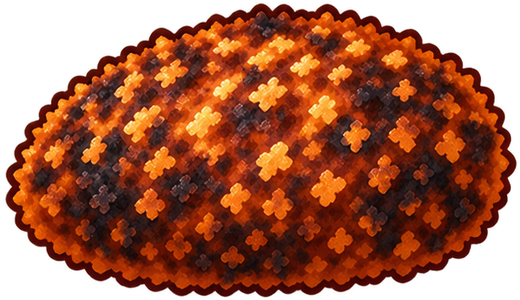
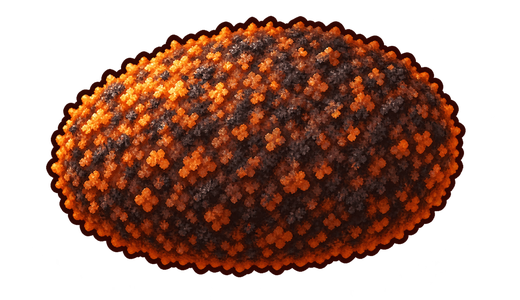
Add files via upload

diff --git a/renderer.js b/renderer.js
@@ -11,12 +11,10 @@
       {id:'headphones',name:'ヘッドホン',src:'assets/dishgen/headphones.png',cat:'extra'},
       {id:'steam',name:'湯気',src:'assets/dishgen/steam.png',cat:'extra'},
       {id:'sparkle',name:'キラキラ',src:'assets/dishgen/sparkle.png',cat:'extra'},
-      {id:'finishGoldenWhole',name:'焼き(全体/こんがり)',src:'assets/dishgen/finish/golden_whole.png',cat:'finish'},
-      {id:'finishGoldenCut',name:'焼き(断面/こんがり)',src:'assets/dishgen/finish/golden_cut.png',cat:'finish'},
-      {id:'finishBurntWhole',name:'焼き(全体/焦げ)',src:'assets/dishgen/finish/burnt_whole.png',cat:'finish'},
-      {id:'finishBurntCut',name:'焼き(断面/焦げ)',src:'assets/dishgen/finish/burnt_cut.png',cat:'finish'},
-      {id:'finishCharcoalWhole',name:'焼き(全体/丸焦げ)',src:'assets/dishgen/finish/charcoal_whole.png',cat:'finish'},
-      {id:'finishCharcoalCut',name:'焼き(断面/丸焦げ)',src:'assets/dishgen/finish/charcoal_cut.png',cat:'finish'}
+      {id:'finishGoldenWhole',name:'焼き(全体/奇跡の火入れ)',src:'assets/dishgen/finish/golden_whole.png',cat:'finish'},
+      {id:'finishGoldenCut',name:'焼き(断面/奇跡の火入れ)',src:'assets/dishgen/finish/golden_cut.png',cat:'finish'},
+      {id:'finishCharcoalWhole',name:'焼き(全体/黒焦げ)',src:'assets/dishgen/finish/charcoal_whole.png',cat:'finish'},
+      {id:'finishCharcoalCut',name:'焼き(断面/黒焦げ)',src:'assets/dishgen/finish/charcoal_cut.png',cat:'finish'}
     ],
     sauces:[
       {id:'cream',name:'クリーム',src:'assets/dishgen/cream.png',cat:'sauce'},
@@ -74,33 +72,7 @@
     return out;
   }
   function drawImageAsset(ctx,images,l){const img=images[l.assetId];if(!img)return;ctx.save();ctx.translate(l.x,l.y);ctx.rotate((l.rotation||0)*Math.PI/180);ctx.scale(l.flipX?-1:1,1);ctx.globalAlpha=l.alpha??1;const w=img.width*l.scale,h=img.height*l.scale;ctx.drawImage(img,-w/2,-h/2,w,h);ctx.restore();}
-  function drawFinishOverlay(ctx,images,layers,finish){
-    if(!finish||finish==='normal')return;
-    const whole=layers.find(l=>l.role==='backBody');
-    const frame=layers.find(l=>l.role==='cutFrame');
-    const finishMap={
-      golden:{whole:'finishGoldenWhole',cut:'finishGoldenCut'},
-      burnt:{whole:'finishBurntWhole',cut:'finishBurntCut'},
-      charcoal:{whole:'finishCharcoalWhole',cut:'finishCharcoalCut'}
-    };
-    const pair=finishMap[finish];
-    if(!pair)return;
-    const drawLayer=(target,assetId)=>{
-      if(!target||!assetId)return;
-      const img=images[assetId];
-      if(!img)return;
-      ctx.save();
-      ctx.translate(target.x,target.y);
-      ctx.rotate((target.rotation||0)*Math.PI/180);
-      ctx.scale(target.flipX?-1:1,1);
-      ctx.globalAlpha=(target.alpha==null?1:Number(target.alpha));
-      const w=img.width*target.scale,h=img.height*target.scale;
-      ctx.drawImage(img,-w/2,-h/2,w,h);
-      ctx.restore();
-    };
-    drawLayer(whole,pair.whole);
-    drawLayer(frame,pair.cut);
-  }
+  function drawFinishOverlay(ctx,images,layers,finish){if(!finish||finish==='normal')return;const whole=layers.find(l=>l.role==='backBody');const frame=layers.find(l=>l.role==='cutFrame');const finishMap={golden:{whole:'finishGoldenWhole',cut:'finishGoldenCut'},charcoal:{whole:'finishCharcoalWhole',cut:'finishCharcoalCut'},burnt:{whole:'finishCharcoalWhole',cut:'finishCharcoalCut'}};const pair=finishMap[finish];if(!pair)return;const drawLayer=(target,assetId)=>{if(!target||!assetId)return;const img=images[assetId];if(!img)return;ctx.save();ctx.translate(target.x,target.y);ctx.rotate((target.rotation||0)*Math.PI/180);ctx.scale(target.flipX?-1:1,1);ctx.globalAlpha=(target.alpha==null?1:Number(target.alpha));const w=img.width*target.scale,h=img.height*target.scale;ctx.drawImage(img,-w/2,-h/2,w,h);ctx.restore();};drawLayer(whole,pair.whole);drawLayer(frame,pair.cut);}
   function renderDish(ctx,images,state,options={}){ctx.clearRect(0,0,ctx.canvas.width,ctx.canvas.height);if(options.backgroundFill){ctx.fillStyle=options.backgroundFill;ctx.fillRect(0,0,ctx.canvas.width,ctx.canvas.height);}const mask=state.mask||createDefaultMask();const layers=[...(state.layers||[])].filter(l=>l.visible!==false).sort((a,b)=>a.z-b.z);for(const l of layers){const d=()=>drawImageAsset(ctx,images,l);if(l.clip){ctx.save();ctx.translate(mask.x,mask.y);ctx.rotate(mask.rotation||0);ctx.beginPath();ctx.ellipse(0,0,mask.rx,mask.ry,0,0,Math.PI*2);ctx.clip();ctx.translate(-mask.x,-mask.y);d();ctx.restore();}else d();}drawFinishOverlay(ctx,images,layers,state.recipe?.finish);if(options.showMask){ctx.save();ctx.translate(mask.x,mask.y);ctx.rotate(mask.rotation||0);ctx.strokeStyle='#2563eb';ctx.setLineDash([9,7]);ctx.lineWidth=2;ctx.beginPath();ctx.ellipse(0,0,mask.rx,mask.ry,0,0,Math.PI*2);ctx.stroke();ctx.restore();}}
   async function loadDefaultImages(loader){const o={};for(const d of Object.values(assetMap))o[d.id]=await loader(d.src);return o;}
   function makeThumbCanvas(img,w=100,h=68){const c=document.createElement('canvas');c.width=w;c.height=h;const x=c.getContext('2d');const r=Math.min((w-8)/img.width,(h-8)/img.height);const dw=img.width*r,dh=img.height*r;x.drawImage(img,(w-dw)/2,(h-dh)/2,dw,dh);return c;}

diff --git a/index.html b/index.html
@@ -139,7 +139,7 @@ async function makeCrop(){const i=currentImg();if(!i||selection.length<3)return 
 $('#makeCropBtn').onclick=makeCrop;$('#autoAlphaBtn').onclick=async()=>{const b=resultBlob||await makeCrop();if(!b)return;resultBlob=await autoTransparent(b);$('#cropResult').src=URL.createObjectURL(resultBlob);};$('#resetAlphaBtn').onclick=()=>{if(!originalResultBlob)return;resultBlob=originalResultBlob;$('#cropResult').src=URL.createObjectURL(resultBlob);};$('#saveCropBtn').onclick=async()=>{const b=resultBlob||await makeCrop();if(b)download(b,'cropped-asset.png');};$('#applyCropToAssetBtn').onclick=async()=>{const b=resultBlob||await makeCrop();if(!b)return;const url=await blobDataUrl(b),id=state.selectedAssetId;state.overrides[id]=url;state.images[id]=await loadImage(url);renderAssetGrid();renderAssetThumbs();draw();alert(`${R.assetMap[id].name} の素材ID自体を置き換えました。テンプレート座標はそのまま引き継ぎます。`);};
 $('#exportAssetPackBtn').onclick=()=>download(new Blob([JSON.stringify({format:'kani-asset-pack-v3',basedOnGame:'v0.9.7',overrides:state.overrides,gameAssetPaths:GAME_ASSET_PATHS},null,2)],{type:'application/json'}),'kani-asset-pack-v3.json');$('#importAssetPackBtn').onclick=()=>$('#assetPackFile').click();$('#assetPackFile').onchange=async e=>{const o=JSON.parse(await e.target.files[0].text());await applyOverrides(o.overrides||{});renderAssetGrid();renderAssetThumbs();draw();};$('#resetSelectedAssetBtn').onclick=()=>{delete state.overrides[state.selectedAssetId];state.images[state.selectedAssetId]=state.defaultImages[state.selectedAssetId];renderAssetGrid();renderAssetThumbs();draw();};$('#resetAllAssetsBtn').onclick=()=>{state.overrides={};state.images={...state.defaultImages};renderAssetGrid();renderAssetThumbs();draw();};$('#uploadSourceInput').onchange=async e=>{const f=e.target.files[0];if(!f)return;const url=URL.createObjectURL(f),im=await loadImage(url),id='upload_'+Date.now();sourceImages[id]=im;sourceDefs.push({id,name:f.name});currentSourceId=id;fit();renderSources();drawCrop();};
 $$('.tabBtn').forEach(b=>b.onclick=()=>{$$('.tabBtn').forEach(x=>x.classList.toggle('active',x===b));$$('.view').forEach(v=>v.classList.toggle('active',v.id===b.dataset.view));if(b.dataset.view==='assetView')drawCrop();});
-(async()=>{state.defaultImages=await R.loadDefaultImages(loadImage);state.images={...state.defaultImages};$('#sauceSelect').innerHTML=R.defs.sauces.map(x=>`<option value="${x.id}">${x.name}</option>`).join('');$('#mainSelect').innerHTML=R.defs.mains.map(x=>`<option value="${x.id}">${x.name}</option>`).join('');$('#finishSelect').innerHTML='<option value="normal">通常</option><option value="golden">こんがり</option><option value="burnt">焦げ</option><option value="charcoal">丸焦げ</option>';
+(async()=>{state.defaultImages=await R.loadDefaultImages(loadImage);state.images={...state.defaultImages};$('#sauceSelect').innerHTML=R.defs.sauces.map(x=>`<option value="${x.id}">${x.name}</option>`).join('');$('#mainSelect').innerHTML=R.defs.mains.map(x=>`<option value="${x.id}">${x.name}</option>`).join('');$('#finishSelect').innerHTML='<option value="normal">通常</option><option value="golden">奇跡の火入れ</option><option value="charcoal">黒焦げ</option>';
 const bundled=window.KANI_DISH_PROJECT||null;
 if(bundled){state.templates=JSON.parse(JSON.stringify(bundled.templates||[]));await applyOverrides(bundled.overrides||{});}else{state.templates=[];}
 if(!state.templates.length){try{state.templates=JSON.parse(localStorage.getItem('kaniDishTemplateLibraryV8')||'[]');}catch{state.templates=[];}}

diff --git a/README.md b/README.md
@@ -25,9 +25,3 @@
 - 原本A/B
 - 別版シート
 - 旧版シート
-
-
-## v13b 焼き加減素材追加
-- 焼き具合の `こんがり / 焦げ / 丸焦げ` を、塗りつぶしではなく専用の焼き色オーバーレイ素材で表示するように更新
-- 素材シート: `source/finish_overlay_sheet.png`
-- 取り込み済み個別素材: `assets/dishgen/finish/*.png`
